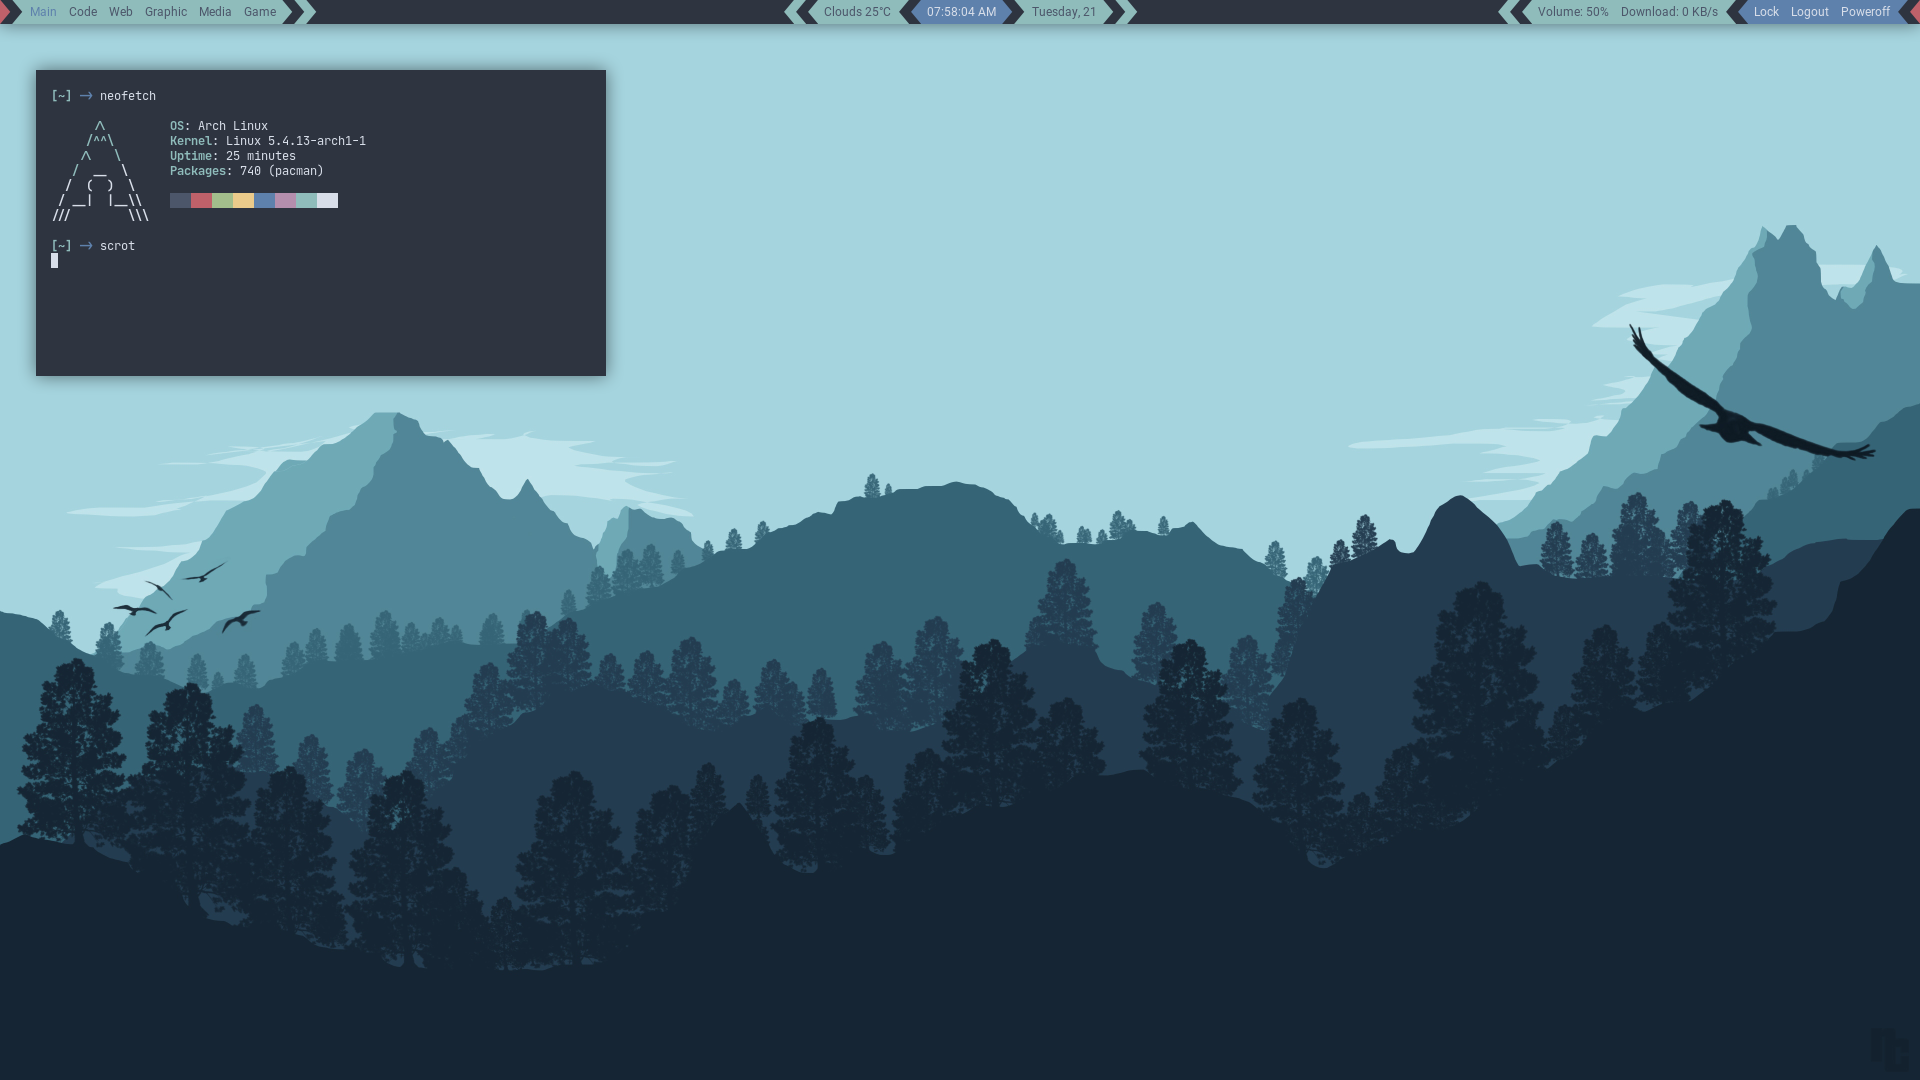
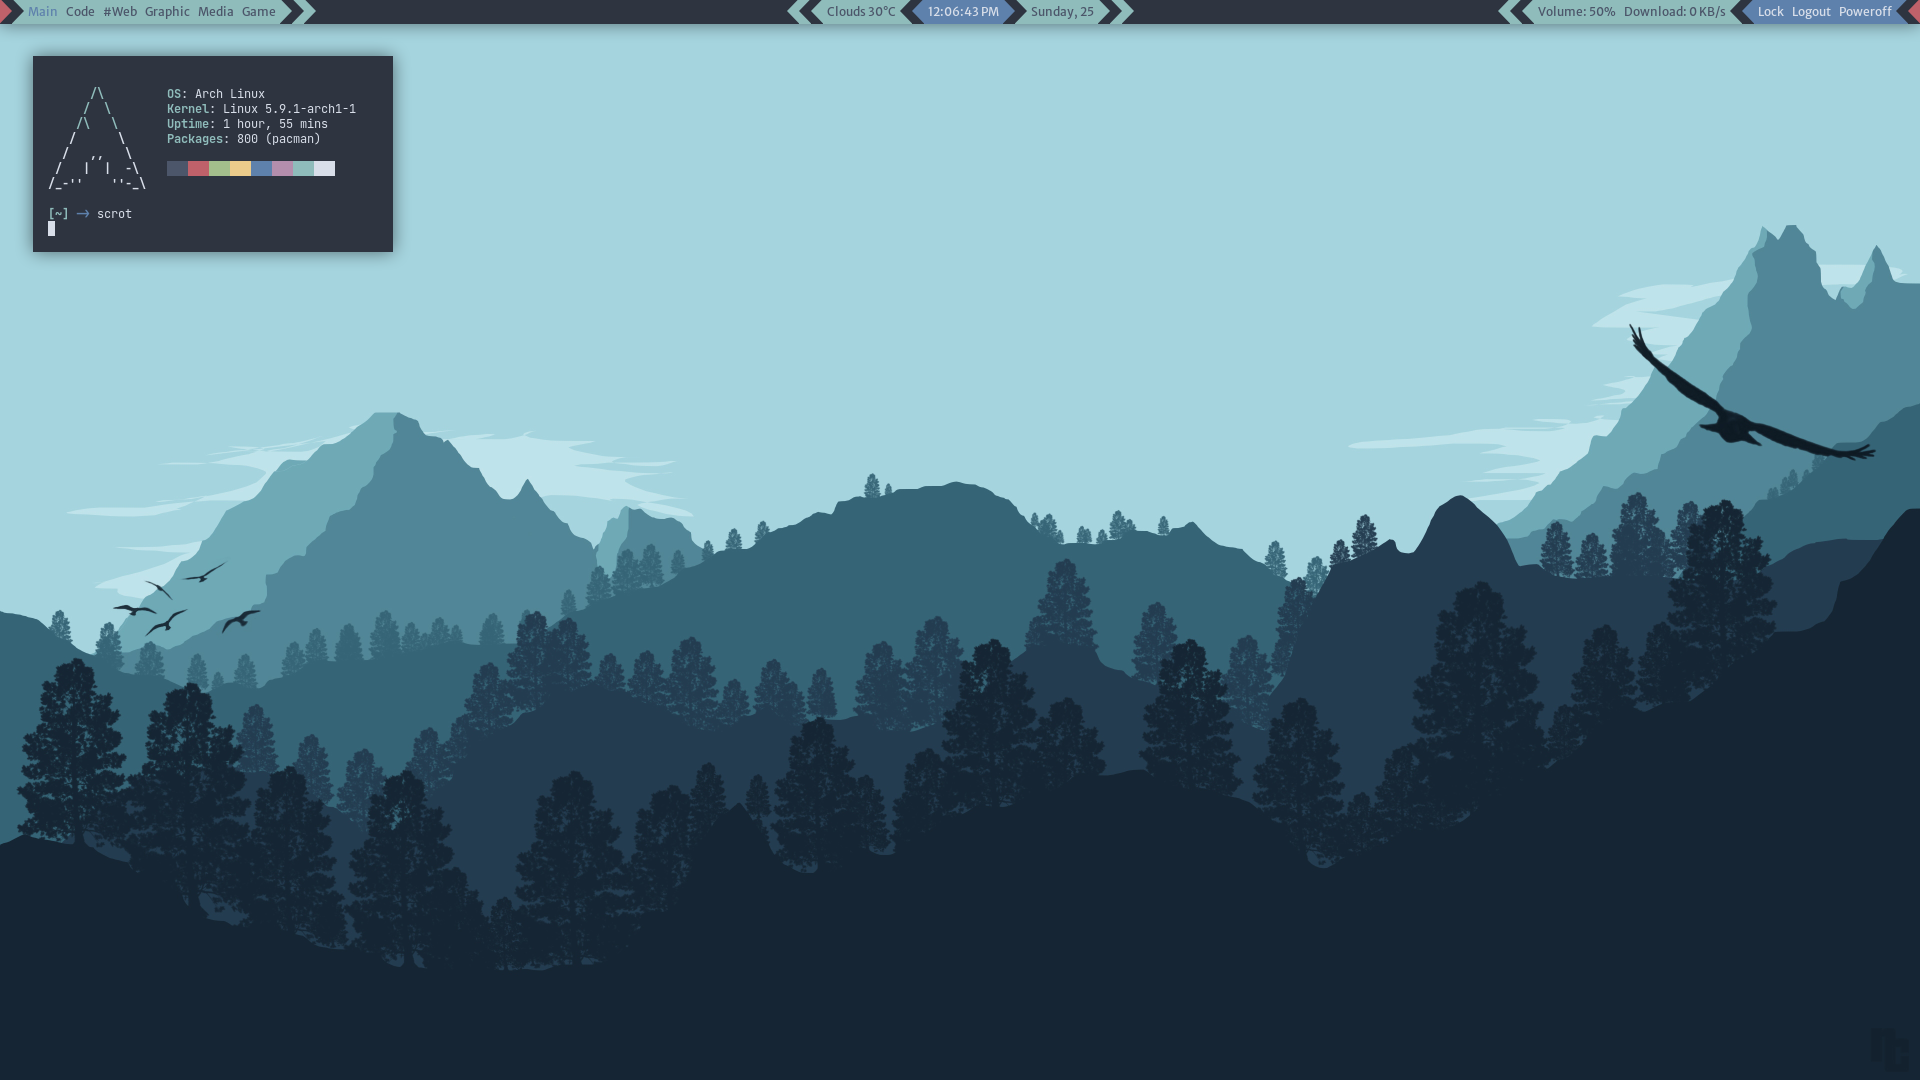
Forgot to update screenshot and README.md

Changed region(s): [[0.0, 0.0, 0.3438, 0.3667], [0.8125, 0.0, 1.0, 0.0306], [0.4062, 0.0, 0.5938, 0.0306]]

diff --git a/README.md b/README.md
@@ -57,9 +57,9 @@ My personal configuration files
 - GTK theme: [Nordic](https://github.com/EliverLara/Nordic)
 - Icon theme: [Papirus Folders Nordic](https://github.com/basigur/papirus-folders)
 - Cursor theme: [Human](https://launchpad.net/human-cursors-theme)
-- Fonts: [Roboto](https://fonts.google.com/specimen/Roboto) and [JetBrains Mono](https://www.jetbrains.com/lp/mono)
+- Fonts: [Merriweather Sans](https://fonts.google.com/specimen/Merriweather+Sans) and [JetBrains Mono](https://www.jetbrains.com/lp/mono)
 - Wallpaper: Found on Google (Can be found at `misc/wallpapers` directory)
-- Riced applications: [CAVA](https://github.com/karlstav/cava), [cmus](https://cmus.github.io), [htop](https://hisham.hm/htop), [Kitty](https://github.com/kovidgoyal/kitty), [nano](https://www.nano-editor.org), [neofetch](https://github.com/dylanaraps/neofetch), [picom](https://github.com/yshui/picom), [Polybar](https://github.com/polybar/polybar), [Ranger](https://github.com/ranger/ranger), [Rofi](https://github.com/davatorium/rofi) and [Vim](https://www.vim.org)
+- Riced applications: [CAVA](https://github.com/karlstav/cava), [cmus](https://cmus.github.io), [htop](https://hisham.hm/htop), [Kitty](https://github.com/kovidgoyal/kitty), [nano](https://www.nano-editor.org), [neofetch](https://github.com/dylanaraps/neofetch), [picom](https://github.com/yshui/picom), [Polybar](https://github.com/polybar/polybar), [Ranger](https://github.com/ranger/ranger), [Rofi](https://github.com/davatorium/rofi), [Vim](https://www.vim.org) and [VS Code](https://code.visualstudio.com)
 
 ## Termux
-You can also find Termux configuration files on Android, under `termux` directory.
+You can also find Termux configuration files on Android, under `termux` directory. I'm no longer doing Termux, by the way.
